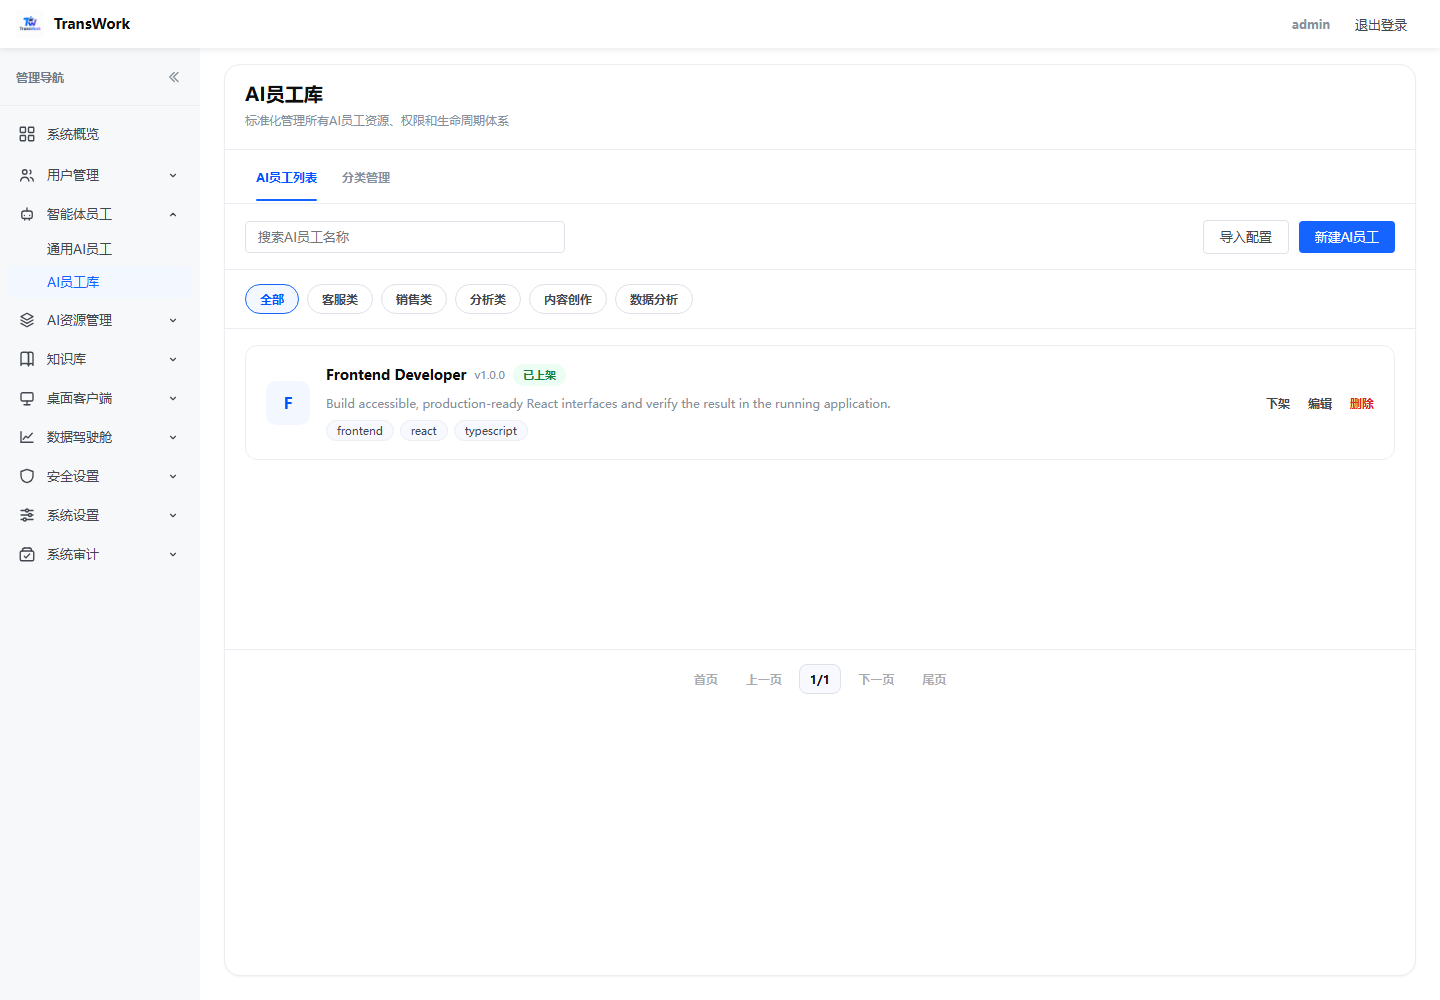
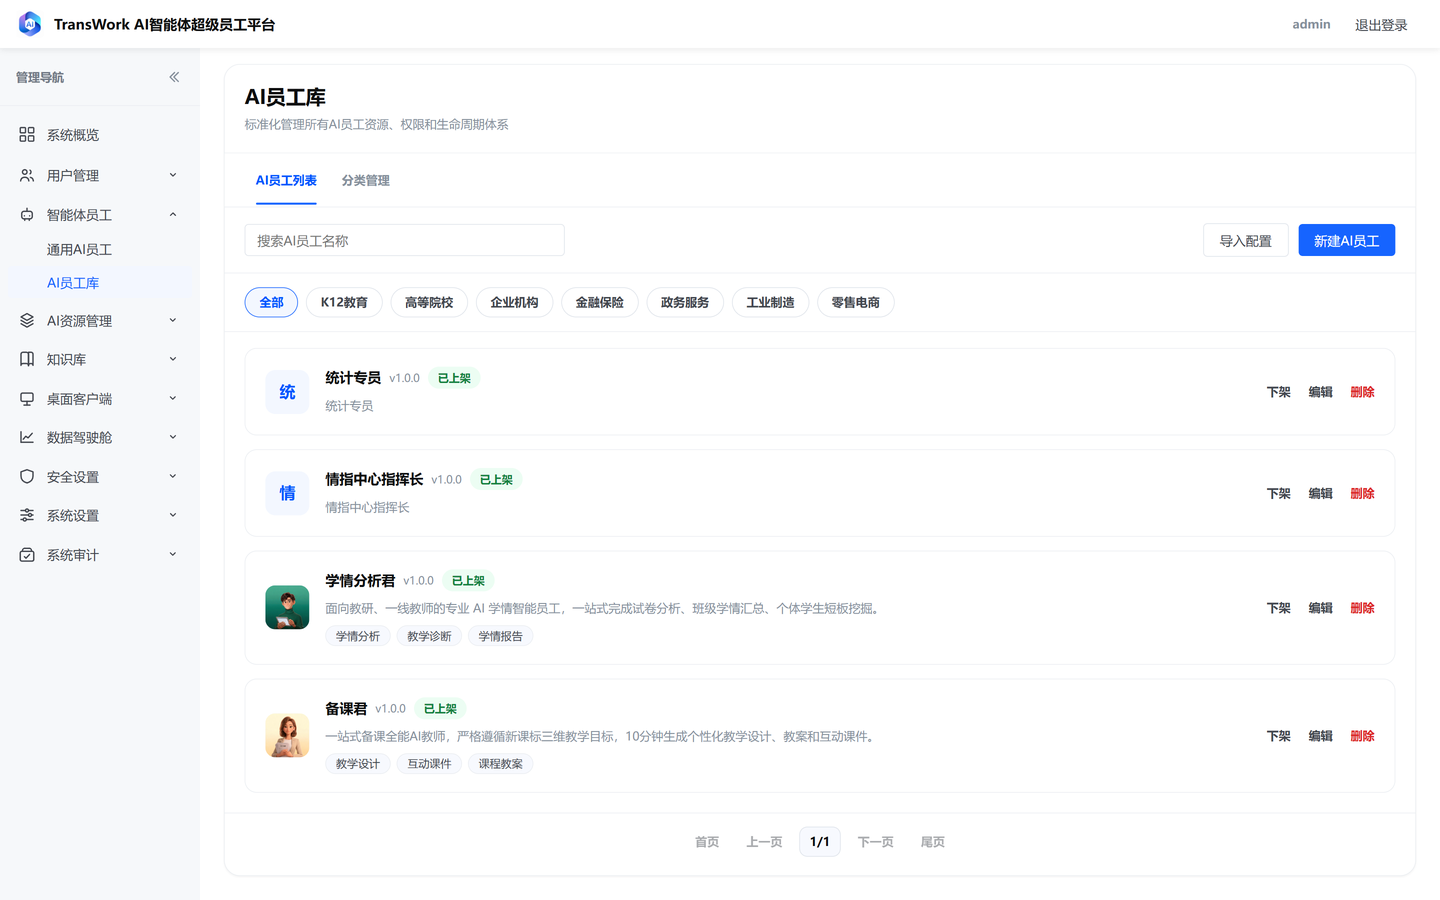
docs: 界面截图按 1.5.1 最新 UI 重拍
后台、WebAgent、桌面客户端三端界面均已改版，原截图仍是旧 logo 与旧导航，替换为当前版本真实截图：

- 管理后台 8 张：线上演示站实拍，含新版六边形 logo、完整导航分组与当前数据
- WebAgent 3 张：本地最新源码 + 假后台，品牌与 logo 同步
- 桌面客户端 4 张：1.5.1 客户端实拍，真实对话与任务详情面板
- social-preview.png 按新品牌与客户端界面重制（1280x640）
- README 两处文案对齐新 UI：WebAgent 首页说明、数据驾驶舱改为 AI 数据看板

diff --git a/README.md b/README.md
@@ -26,7 +26,7 @@
 
 **浏览器版 WebAgent**：不用装客户端，打开浏览器用后台账号登录，同一套员工与技能直接开工。
 
-| 登录：账号与权限来自后台 | 首页：选一位员工下达任务 |
+| 登录：账号与权限来自后台 | 首页：直接向数字员工下达任务 |
 | --- | --- |
 | <img src="assets/screenshots/09b-webagent-login.png" width="440" /> | <img src="assets/screenshots/09-webagent-home.png" width="440" /> |
 
@@ -39,7 +39,7 @@
 | <img src="assets/screenshots/01-admin-overview.png" width="440" /> | <img src="assets/screenshots/02-admin-agents.png" width="440" /> |
 | **AI 技能库** | **企业知识库** |
 | <img src="assets/screenshots/03-admin-skills.png" width="440" /> | <img src="assets/screenshots/04-admin-knowledge.png" width="440" /> |
-| **AI 模型库** | **数据驾驶舱** |
+| **AI 模型库** | **AI 数据看板** |
 | <img src="assets/screenshots/05-admin-models.png" width="440" /> | <img src="assets/screenshots/06-admin-dashboard.png" width="440" /> |
 | **客户端管理** | **通用安全** |
 | <img src="assets/screenshots/07-admin-clients.png" width="440" /> | <img src="assets/screenshots/08-admin-security.png" width="440" /> |
